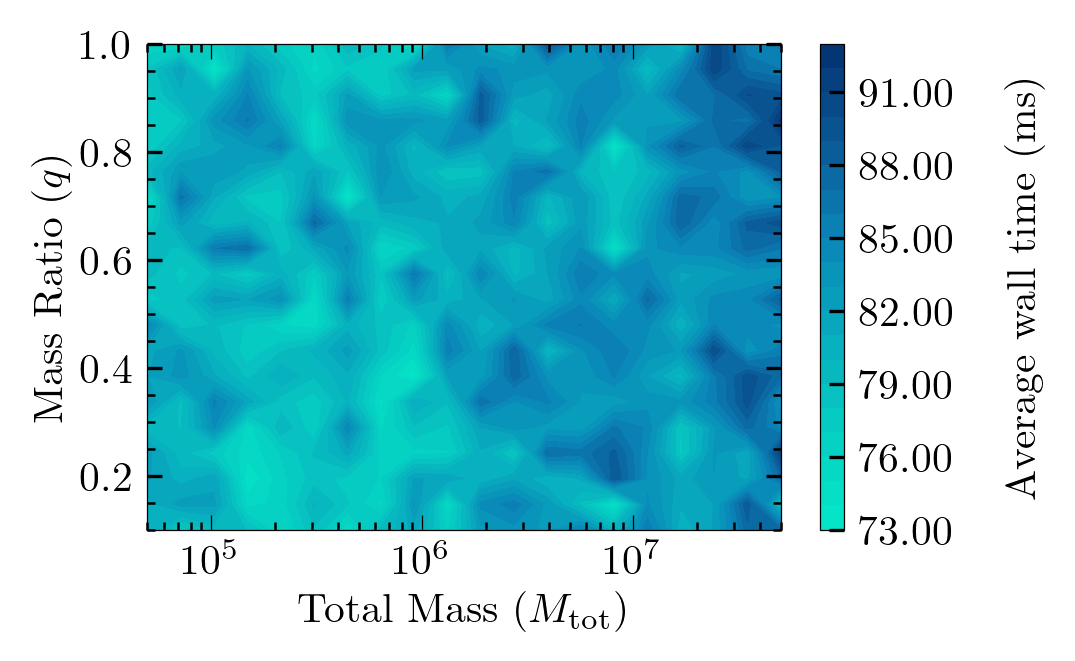
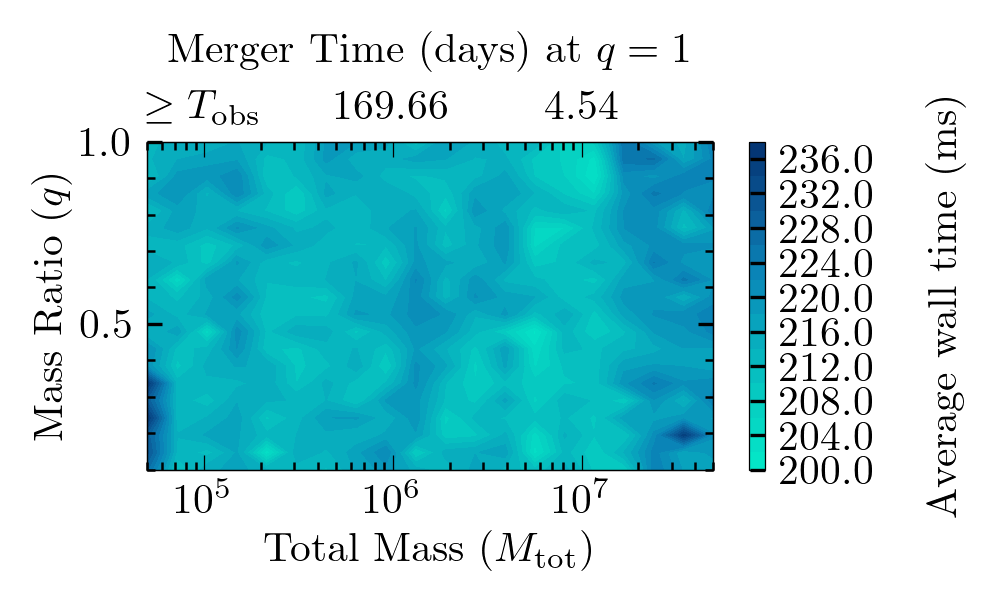
new timings with merger time

diff --git a/benchmark/plot_timings.py b/benchmark/plot_timings.py
@@ -1,4 +1,4 @@
-device = "3"
+device = ""
 if len(device) == 0:
     platform = "cpu"
     target_directory = "cpu"
@@ -7,7 +7,6 @@ else:
     target_directory = "gpu"
 
 import os
-
 os.makedirs(target_directory, exist_ok=True)
 
 os.environ["XLA_PYTHON_CLIENT_PREALLOCATE"] = "false"
@@ -37,10 +36,14 @@ except (ImportError, ModuleNotFoundError):
     print("pysco not found, using default matplotlib style and colormap")
     cmap = plt.get_cmap("cividis")
 
+PLOT_MQ = True
+PLOT_BATCH = True
+
 # ---------------
 tlowfit = True  # use a fit to set the starting time of the root finder used in t(f)
 tol = 1e-12  # root finding tolerance
-Tobs = 2 * ASTRONOMICAL_YEAR / 12
+Tobs = 6 * ASTRONOMICAL_YEAR / 12
+Tobs_batch = 2 * ASTRONOMICAL_YEAR / 12
 dt = 10.0
 # ---------------
 
@@ -50,7 +53,7 @@ distance = 500.0
 inclination = jnp.pi / 3.0
 phi_ref = 0.0
 psi = 1.0
-f_min = 5e-5
+f_min = 9e-5
 delta_t = 10
 f_ref = f_min
 
@@ -60,7 +63,7 @@ qmin, qmax = 0.1, 1.0
 num_per_axis = 20
 Mt_values = jnp.logspace(jnp.log10(Mt_min), jnp.log10(Mt_max), num_per_axis)
 q_values = jnp.linspace(qmin, qmax, num_per_axis)
-N_AVG = 50  # number of times to repeat each computation for averaging
+N_AVG = 50 #50  # number of times to repeat each computation for averaging
 
 batch_sizes = [1, 10, 50, 100, 200]
 
@@ -101,21 +104,51 @@ def fill_batch_arrays(
         psi_batch,
     )
 
-def plot_Mq_times(Mt_values, q_values, times_list):
+def plot_Mq_times(Mt_values, q_values, tmerg_values, times_list):
     Mt_grid, q_grid = np.meshgrid(Mt_values, q_values, indexing="ij")
     times_array = np.array(times_list).reshape(len(Mt_values), len(q_values))
+    Mt_values_np = np.asarray(Mt_values, dtype=float)
+    tmerg_values_np = np.asarray(tmerg_values, dtype=float) / (60.0 * 60. * 24) 
+
+    T_obs_days = Tobs / (60.0 * 60. * 24)
     # limit the time to 3 decimal places for better color scaling
     # times_array = times_array / 1e3 # convert to milliseconds
-    plt.figure()
-    cp = plt.contourf(Mt_grid, q_grid, times_array, levels=20, cmap=cmap)
+    fig, ax = plt.subplots()
+    cp = ax.contourf(Mt_grid, q_grid, times_array, levels=20, cmap=cmap)
+
     # format the time values in the colorbar to be in milliseconds with 2 decimal places
-    cbar = plt.colorbar(cp)
-    cbar.ax.yaxis.set_major_formatter(plt.FuncFormatter(lambda x, _: f"{x*1e3:.2f}"))
+    cbar = fig.colorbar(cp, ax=ax)
+    cbar.ax.yaxis.set_major_formatter(plt.FuncFormatter(lambda x, _: f"{x*1e3:.1f}"))
     cbar.set_label("Average wall time (ms)", rotation=90, labelpad=12)
-    plt.xscale("log")
-    plt.xlabel(r"Total Mass ($M_{\rm tot}$)")
-    plt.ylabel(r"Mass Ratio ($q$)")
-    plt.savefig(f"{target_directory}/timings_Mt_q.png")
+
+    ax.set_xscale("log")
+    ax.set_xlabel(r"Total Mass ($M_{\rm tot}$)")
+    ax.set_ylabel(r"Mass Ratio ($q$)")
+
+    # Add a top axis that relabels mass ticks using the corresponding merger times.
+    top_ax = ax.twiny()
+    top_ax.set_xscale("log")
+    top_ax.set_xlim(ax.get_xlim())
+    mass_ticks = ax.get_xticks()
+    valid_ticks = mass_ticks[
+        (mass_ticks >= Mt_values_np.min()) & (mass_ticks <= Mt_values_np.max())
+    ]
+
+    tmerg_at_ticks = np.interp(valid_ticks, Mt_values_np, tmerg_values_np)
+    atol_days = max(1e-6, 1e-3 * T_obs_days)
+
+    def format_tmerg_tick(t_days):
+        # Values at the observation limit indicate truncated signals, not full merger times.
+        if t_days >= T_obs_days - atol_days:
+            return r"$\ge T_{\mathrm{obs}}$"
+        return f"{t_days:.2f}"
+
+    top_ax.set_xticks(valid_ticks)
+    top_ax.set_xticklabels([format_tmerg_tick(t) for t in tmerg_at_ticks])
+    top_ax.set_xlabel(r"Merger Time (days) at $q=1$", labelpad=7)
+
+    fig.tight_layout()
+    fig.savefig(f"{target_directory}/timings_Mt_q.png")
     # plt.show()
 
 def plot_batch_times(batch_sizes, batch_times, warmup_batch_times):
@@ -148,107 +181,86 @@ if __name__ == "__main__":
         T=Tobs,
     )
 
-    # warm up
-    m1, m2 = mt_q_to_m1_m2(Mt_values[0], q_values[0])
+    if PLOT_MQ:
+        # warm up
+        m1, m2 = mt_q_to_m1_m2(Mt_values[0], q_values[0])
 
-    tic = time.time()
-    times, mask, h_plus, h_cross = wave_gen.compute_polarizations_at_once(
-        m1,
-        m2,
-        chi1,
-        chi2,
-        distance,
-        phi_ref,
-        f_ref,
-        f_min,
-        inclination,
-        psi,
-        delta_t=delta_t,
-    )
+        tic = time.time()
+        times, mask, h_plus, h_cross = wave_gen.compute_polarizations_at_once(
+            m1,
+            m2,
+            chi1,
+            chi2,
+            distance,
+            phi_ref,
+            f_ref,
+            f_min,
+            inclination,
+            psi,
+            delta_t=delta_t,
+        )
 
-    h_plus.block_until_ready()
-    toc = time.time()
-    print(f"Warmup time: {toc - tic:.2f} seconds")
+        h_plus.block_until_ready()
+        toc = time.time()
+        print(f"Warmup time: {toc - tic:.2f} seconds")
 
-    times_list = []
-    for mt in tqdm(Mt_values, desc="Total Mass"):
-        for q in tqdm(q_values, desc="Mass Ratio"):
-            m1, m2 = mt_q_to_m1_m2(mt, q)
-            elapsed_time = 0.0
-            for _ in range(N_AVG):
-                tic = time.time()
-                times, mask, h_plus, h_cross = wave_gen.compute_polarizations_at_once(
-                    m1,
-                    m2,
-                    chi1,
-                    chi2,
-                    distance,
-                    phi_ref,
-                    f_ref,
-                    f_min,
-                    inclination,
-                    psi,
-                    delta_t=delta_t,
+        times_list = []
+        merger_times = []
+        for mt in tqdm(Mt_values, desc="Total Mass"):
+            for q in tqdm(q_values, desc="Mass Ratio"):
+                m1, m2 = mt_q_to_m1_m2(mt, q)
+                elapsed_time = 0.0
+                for _ in range(N_AVG):
+                    tic = time.time()
+                    times, mask, h_plus, h_cross = wave_gen.compute_polarizations_at_once(
+                        m1,
+                        m2,
+                        chi1,
+                        chi2,
+                        distance,
+                        phi_ref,
+                        f_ref,
+                        f_min,
+                        inclination,
+                        psi,
+                        delta_t=delta_t,
+                    )
+                    h_plus.block_until_ready()
+                    toc = time.time()
+                    elapsed_time += toc - tic
+                times_list.append(elapsed_time / N_AVG)
+                merger_time = -1 * times[mask][0]  # time of merger in seconds. Times are negative and 0.0 at merger
+                print(
+                    f"Mt: {mt:.2e}, q: {q:.2f}, average time: {elapsed_time / N_AVG:.2f} seconds"
                 )
-                h_plus.block_until_ready()
-                toc = time.time()
-                elapsed_time += toc - tic
-            times_list.append(elapsed_time / N_AVG)
-            print(
-                f"Mt: {mt:.2e}, q: {q:.2f}, average time: {elapsed_time / N_AVG:.2f} seconds"
-            )
-
-    plot_Mq_times(Mt_values, q_values, times_list)
+                if q == 1.0:  # only store merger times for equal mass case to avoid redundancy
+                    print(f"Mt: {mt:.2e}, q: {q:.2f}, merger time: {merger_time:.2f} seconds")
+                    merger_times.append(merger_time)
+        plot_Mq_times(Mt_values, q_values, merger_times, times_list)
 
     # ------
     # Now do the same for different batch sizes, fixing Mt and q
-    mt = 1e6
-    q = 0.7
-    m1, m2 = mt_q_to_m1_m2(mt, q)
+    if PLOT_BATCH:
 
-    warmup_batch_times = []
-    batch_times = []
-    key = jax.random.PRNGKey(0)
-
-    for batch_size in batch_sizes:
-        (
-            key,
-            m1_batch,
-            m2_batch,
-            chi1_batch,
-            chi2_batch,
-            distance_batch,
-            phi_ref_batch,
-            inclination_batch,
-            psi_batch,
-        ) = fill_batch_arrays(
-            batch_size, key, m1, m2, chi1, chi2, distance, phi_ref, inclination, psi
+        wave_gen = IMRPhenomTHM(
+            higher_modes="all",
+            include_negative_modes=True,  # negative m modes will be produced by simmetry
+            t_low_fit=tlowfit,
+            coarse_grain=False,  # if false it will generate the waveform on a dense time grid with the specified timestep
+            atol=tol,
+            rtol=tol,
+            T=Tobs_batch,
         )
+        
+        mt = 1e6
+        q = 0.7
+        m1, m2 = mt_q_to_m1_m2(mt, q)
 
-        tic = time.time()
-        times, mask, h_plus_batch, h_cross_batch = (
-            wave_gen.compute_polarizations_at_once(
-                m1_batch,
-                m2_batch,
-                chi1_batch,
-                chi2_batch,
-                distance_batch,
-                phi_ref_batch,
-                f_ref,
-                f_min,
-                inclination_batch,
-                psi_batch,
-                delta_t=delta_t,
-            )
-        )
-        h_plus_batch.block_until_ready()
-        toc = time.time()
-        warmup_batch_times.append(toc - tic)
-        print(f"Batch size: {batch_size}, warmup time: {toc - tic:.2f} seconds")
+        warmup_batch_times = []
+        batch_times = []
+        key = jax.random.PRNGKey(0)
 
-        # ---- Now do the actual timing with multiple runs for averaging
-        elapsed_time = 0.0
-        for _ in range(N_AVG):
+        for batch_size in batch_sizes:
             (
                 key,
                 m1_batch,
@@ -281,11 +293,49 @@ if __name__ == "__main__":
             )
             h_plus_batch.block_until_ready()
             toc = time.time()
-            elapsed_time += toc - tic
-        batch_times.append(elapsed_time / N_AVG)
-        print(
-            f"Batch size: {batch_size}, average time: {elapsed_time / N_AVG:.2f} seconds"
-        )
+            warmup_batch_times.append(toc - tic)
+            print(f"Batch size: {batch_size}, warmup time: {toc - tic:.2f} seconds")
 
-    plot_batch_times(batch_sizes, batch_times, warmup_batch_times)
+            # ---- Now do the actual timing with multiple runs for averaging
+            elapsed_time = 0.0
+            for _ in range(N_AVG):
+                (
+                    key,
+                    m1_batch,
+                    m2_batch,
+                    chi1_batch,
+                    chi2_batch,
+                    distance_batch,
+                    phi_ref_batch,
+                    inclination_batch,
+                    psi_batch,
+                ) = fill_batch_arrays(
+                    batch_size, key, m1, m2, chi1, chi2, distance, phi_ref, inclination, psi
+                )
+
+                tic = time.time()
+                times, mask, h_plus_batch, h_cross_batch = (
+                    wave_gen.compute_polarizations_at_once(
+                        m1_batch,
+                        m2_batch,
+                        chi1_batch,
+                        chi2_batch,
+                        distance_batch,
+                        phi_ref_batch,
+                        f_ref,
+                        f_min,
+                        inclination_batch,
+                        psi_batch,
+                        delta_t=delta_t,
+                    )
+                )
+                h_plus_batch.block_until_ready()
+                toc = time.time()
+                elapsed_time += toc - tic
+            batch_times.append(elapsed_time / N_AVG)
+            print(
+                f"Batch size: {batch_size}, average time: {elapsed_time / N_AVG:.2f} seconds"
+            )
+
+        plot_batch_times(batch_sizes, batch_times, warmup_batch_times)
     print("Done!")
